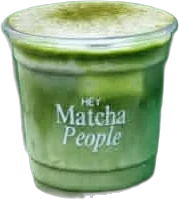
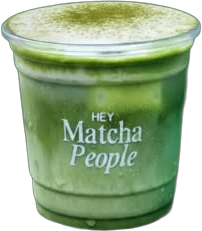
Menu photos from Ken's Drive menus: larger cups, real toasted milk, kinako and hojicha cups (drawings removed)

diff --git a/index.html b/index.html
@@ -88,7 +88,7 @@
   .show{position:sticky;top:80px;min-height:min(72svh,640px);border-radius:28px;background:radial-gradient(90% 70% at 50% 40%,#2F7A3C,var(--deep));overflow:hidden;display:grid;place-items:center;padding:28px}
   .show-name{position:absolute;inset:auto 0 52% 0;text-align:center;font-family:var(--serif);font-size:clamp(3.4rem,8vw,7.5rem);line-height:.85;color:rgba(236,233,211,.16);pointer-events:none;padding:0 10px;view-transition-name:showname}
   .show-cup{position:relative;width:min(62%,280px);aspect-ratio:3/4;display:grid;place-items:end center;view-transition-name:showcup}
-  .show-cup img,.show-cup svg{width:100%;height:100%;object-fit:contain;object-position:bottom;filter:drop-shadow(0 24px 26px rgba(0,0,0,.4))}
+  .show-cup img{width:100%;height:100%;object-fit:contain;object-position:bottom;filter:drop-shadow(0 24px 26px rgba(0,0,0,.4))}
   .show-info{position:absolute;left:24px;right:24px;bottom:20px;display:flex;justify-content:space-between;align-items:end;gap:12px}
   .show-info h3{font-size:clamp(2rem,4vw,3rem)}
   .show-price{font-size:clamp(1.4rem,3vw,2rem);font-weight:700;font-variant-numeric:tabular-nums;white-space:nowrap}
@@ -100,7 +100,7 @@
   .drink:hover{border-color:rgba(236,233,211,.5)}
   .drink[aria-pressed="true"]{background:var(--cream);color:var(--deep);border-color:var(--cream)}
   .drink .th{width:56px;height:64px;display:grid;place-items:end center}
-  .drink .th img,.drink .th svg{max-height:64px;width:auto}
+  .drink .th img{max-height:64px;width:auto}
   .drink b{font-weight:700;font-size:15px}
   .drink small{display:block;font-size:12px;opacity:.75}
   .drink .pr{font-weight:700;font-variant-numeric:tabular-nums}
@@ -310,12 +310,12 @@ document.addEventListener('click', function (e) {
       <div>
         <ul class="drinks" id="drinks">
           <li><button class="drink" type="button" aria-pressed="true" data-img="classic-hd" data-levels="1"><span class="th"><img src="assets/cups/classic-hd.webp" width="640" height="678" alt="" loading="lazy"></span><span><b>classic latte</b><small>level 1, level 2, blend 03, okumidori</small></span><span class="pr">240</span></button></li>
-          <li><button class="drink" type="button" aria-pressed="false" data-img="sea-salt"><span class="th"><img src="assets/cups/sea-salt.webp" width="179" height="199" alt="" loading="lazy"></span><b>sea salt matcha</b><span class="pr">260</span></button></li>
-          <li><button class="drink" type="button" aria-pressed="false" data-img="cream-cheese"><span class="th"><img src="assets/cups/cream-cheese.webp" width="191" height="208" alt="" loading="lazy"></span><b>cream cheese matcha</b><span class="pr">265</span></button></li>
-          <li><button class="drink" type="button" aria-pressed="false" data-img="strawberry"><span class="th"><img src="assets/cups/strawberry.webp" width="192" height="189" alt="" loading="lazy"></span><b>strawberry matcha</b><span class="pr">260</span></button></li>
-          <li><button class="drink" type="button" aria-pressed="false" data-img="earl-grey"><span class="th"><img src="assets/cups/earl-grey.webp" width="196" height="207" alt="" loading="lazy"></span><b>earl grey matcha</b><span class="pr">260</span></button></li>
-          <li><button class="drink" type="button" aria-pressed="false" data-svg="toasted" data-tag="★ best seller"><span class="th"><svg viewBox="0 0 120 150" aria-hidden="true"><use href="#cup-toasted"/></svg></span><span><b>toasted milk matcha <span class="star" aria-label="best seller">★</span></b></span><span class="pr">260</span></button></li>
-          <li><button class="drink" type="button" aria-pressed="false" data-svg="kinako" data-tag="👍 recommended"><span class="th"><svg viewBox="0 0 120 150" aria-hidden="true"><use href="#cup-kinako"/></svg></span><span><b>kinako cream matcha <span aria-label="recommended">👍</span></b></span><span class="pr">280</span></button></li>
+          <li><button class="drink" type="button" aria-pressed="false" data-img="sea-salt"><span class="th"><img src="assets/cups/sea-salt.webp" width="202" height="231" alt="" loading="lazy"></span><b>sea salt matcha</b><span class="pr">260</span></button></li>
+          <li><button class="drink" type="button" aria-pressed="false" data-img="cream-cheese"><span class="th"><img src="assets/cups/cream-cheese.webp" width="215" height="236" alt="" loading="lazy"></span><b>cream cheese matcha</b><span class="pr">265</span></button></li>
+          <li><button class="drink" type="button" aria-pressed="false" data-img="strawberry"><span class="th"><img src="assets/cups/strawberry.webp" width="209" height="233" alt="" loading="lazy"></span><b>strawberry matcha</b><span class="pr">260</span></button></li>
+          <li><button class="drink" type="button" aria-pressed="false" data-img="earl-grey"><span class="th"><img src="assets/cups/earl-grey.webp" width="223" height="236" alt="" loading="lazy"></span><b>earl grey matcha</b><span class="pr">260</span></button></li>
+          <li><button class="drink" type="button" aria-pressed="false" data-img="toasted-milk" data-tag="★ best seller"><span class="th"><img src="assets/cups/toasted-milk.webp" width="215" height="228" alt="" loading="lazy"></span><span><b>toasted milk matcha <span class="star" aria-label="best seller">★</span></b></span><span class="pr">260</span></button></li>
+          <li><button class="drink" type="button" aria-pressed="false" data-img="kinako" data-tag="👍 recommended"><span class="th"><img src="assets/cups/kinako.webp" width="211" height="243" alt="" loading="lazy"></span><span><b>kinako cream matcha <span aria-label="recommended">👍</span></b></span><span class="pr">280</span></button></li>
         </ul>
         <p class="pill">additional matcha +35 per gram</p>
       </div>
@@ -328,7 +328,7 @@ document.addEventListener('click', function (e) {
     <p class="lede">Roasted green tea, two roasts.</p>
     <div class="callouts">
       <p class="roast l"><span>medium roast<br>230</span><i class="line" aria-hidden="true"></i></p>
-      <svg class="hcup" viewBox="0 0 120 150" role="img" aria-label="Illustration of an iced hojicha latte"><use href="#cup-hoji"/></svg>
+      <img class="hcup" src="assets/cups/hojicha.webp" width="603" height="653" alt="Iced hojicha latte in a clear Hey Matcha People cup" loading="lazy">
       <p class="roast r"><i class="line" aria-hidden="true"></i><span>dark roast<br>240</span></p>
     </div>
     <h3>hojicha latte</h3>
@@ -445,19 +445,6 @@ document.addEventListener('click', function (e) {
   </div>
 </dialog>
 
-<!-- Illustrated cups for drinks we don't have a photo of yet (swap for real photos when sent) -->
-<svg width="0" height="0" style="position:absolute" aria-hidden="true">
-  <defs>
-    <clipPath id="cupclip"><path d="M14 18 H106 L96 140 Q95 146 89 146 H31 Q25 146 24 140 Z"/></clipPath>
-    <g id="cupshell">
-      <path d="M14 18 H106 L96 140 Q95 146 89 146 H31 Q25 146 24 140 Z" fill="rgba(255,255,255,.08)" stroke="rgba(255,255,255,.55)" stroke-width="2"/>
-      <rect x="8" y="12" width="104" height="8" rx="4" fill="rgba(255,255,255,.35)"/>
-    </g>
-    <g id="cup-toasted"><g clip-path="url(#cupclip)"><rect x="0" y="22" width="120" height="44" fill="#E6D3B0"/><path d="M0 62 Q30 70 60 62 T120 62 V112 H0Z" fill="#5E9B3A"/><path d="M0 108 Q30 116 60 108 T120 108 V150 H0Z" fill="#EFE9D8"/></g><use href="#cupshell"/></g>
-    <g id="cup-kinako"><g clip-path="url(#cupclip)"><rect x="0" y="22" width="120" height="30" fill="#D9BE8E"/><path d="M0 48 Q30 56 60 48 T120 48 V104 H0Z" fill="#3E8435"/><path d="M0 100 Q30 108 60 100 T120 100 V150 H0Z" fill="#F1ECDD"/></g><use href="#cupshell"/></g>
-    <g id="cup-hoji"><g clip-path="url(#cupclip)"><rect x="0" y="22" width="120" height="128" fill="#6E5A45"/><rect x="0" y="22" width="120" height="10" fill="#A58B6C"/><rect x="34" y="30" width="22" height="18" rx="4" fill="rgba(255,255,255,.35)"/><rect x="62" y="26" width="20" height="16" rx="4" fill="rgba(255,255,255,.3)"/></g><path d="M14 18 H106 L96 140 Q95 146 89 146 H31 Q25 146 24 140 Z" fill="none" stroke="rgba(30,90,43,.55)" stroke-width="2"/><rect x="8" y="12" width="104" height="8" rx="4" fill="rgba(30,90,43,.25)"/></g>
-  </defs>
-</svg>
 
 <script src="assets/site.js" defer></script>
 <script src="assets/seq.js"></script>
@@ -536,9 +523,7 @@ document.addEventListener('click', function (e) {
     const price = b.querySelector(".pr").textContent;
     const update = () => {
       list.querySelectorAll(".drink").forEach(d => d.setAttribute("aria-pressed", d === b));
-      $("showCup").innerHTML = b.dataset.img
-        ? `<img src="assets/cups/${b.dataset.img}.webp" alt="${name}">`
-        : `<svg viewBox="0 0 120 150" role="img" aria-label="Illustration of ${name}"><use href="#cup-${b.dataset.svg}"/></svg>`;
+      $("showCup").innerHTML = `<img src="assets/cups/${b.dataset.img}.webp" alt="${name}">`;
       $("showName").textContent = name.replace(/ matcha$/, "");
       $("showTitle").textContent = name;
       $("showPrice").textContent = "₱" + price;

diff --git a/v2/index.html b/v2/index.html
@@ -83,14 +83,13 @@
   .grid{max-width:980px;margin:70px auto 0;display:grid;grid-template-columns:repeat(3,minmax(0,1fr));gap:56px 24px;list-style:none;padding:0}
   .grid li{display:grid;justify-items:center;gap:10px}
   .grid .cupbox{height:190px;display:grid;place-items:end center;position:relative}
-  .grid img,.grid svg{max-height:190px;width:auto;filter:drop-shadow(0 18px 18px rgba(0,0,0,.3))}
-  .grid svg{height:180px}
+  .grid img{max-height:190px;width:auto;filter:drop-shadow(0 18px 18px rgba(0,0,0,.3))}
   .grid .mark{position:absolute;top:0;right:-14px;font-size:30px;line-height:1}
   .grid b{font-size:clamp(14px,1.8vw,18px);letter-spacing:.05em;line-height:1.35;max-width:14ch}
   .grid span.p{font-weight:700;font-size:clamp(15px,2vw,20px);font-variant-numeric:tabular-nums}
   .menu .pill{margin-top:60px}
   .menu .note{margin-top:14px;font-size:12px;color:#C9D3BE}
-  @media (max-width:640px){.classic{grid-template-columns:1fr;text-align:center}.classic dl{margin-inline:auto;text-align:left}.grid{grid-template-columns:repeat(2,minmax(0,1fr));gap:40px 14px}.grid .cupbox{height:150px}.grid img,.grid svg{max-height:150px}.grid svg{height:140px}}
+  @media (max-width:640px){.classic{grid-template-columns:1fr;text-align:center}.classic dl{margin-inline:auto;text-align:left}.grid{grid-template-columns:repeat(2,minmax(0,1fr));gap:40px 14px}.grid .cupbox{height:150px}.grid img{max-height:150px}}
 
   /* ---------- HOJICHA ---------- */
   .hoji{background:var(--paper);color:var(--leaf);padding:110px var(--pad);text-align:center}
@@ -268,12 +267,12 @@ document.addEventListener('click', function (e) {
       </div>
     </div>
     <ul class="grid">
-      <li><span class="cupbox"><img src="../assets/cups/sea-salt.webp" width="179" height="199" alt="" loading="lazy"></span><b>sea salt matcha</b><span class="p">260</span></li>
-      <li><span class="cupbox"><img src="../assets/cups/cream-cheese.webp" width="191" height="208" alt="" loading="lazy"></span><b>cream cheese matcha</b><span class="p">265</span></li>
-      <li><span class="cupbox"><img src="../assets/cups/strawberry.webp" width="192" height="189" alt="" loading="lazy"></span><b>strawberry matcha</b><span class="p">260</span></li>
-      <li><span class="cupbox"><img src="../assets/cups/earl-grey.webp" width="196" height="207" alt="" loading="lazy"></span><b>earl grey matcha</b><span class="p">260</span></li>
-      <li><span class="cupbox"><svg viewBox="0 0 120 150" aria-hidden="true"><use href="#cup-toasted"/></svg><span class="mark star" aria-label="best seller">★</span></span><b>toasted milk matcha</b><span class="p">260</span></li>
-      <li><span class="cupbox"><svg viewBox="0 0 120 150" aria-hidden="true"><use href="#cup-kinako"/></svg><span class="mark" aria-label="recommended">👍</span></span><b>kinako cream matcha</b><span class="p">280</span></li>
+      <li><span class="cupbox"><img src="../assets/cups/sea-salt.webp" width="202" height="231" alt="" loading="lazy"></span><b>sea salt matcha</b><span class="p">260</span></li>
+      <li><span class="cupbox"><img src="../assets/cups/cream-cheese.webp" width="215" height="236" alt="" loading="lazy"></span><b>cream cheese matcha</b><span class="p">265</span></li>
+      <li><span class="cupbox"><img src="../assets/cups/strawberry.webp" width="209" height="233" alt="" loading="lazy"></span><b>strawberry matcha</b><span class="p">260</span></li>
+      <li><span class="cupbox"><img src="../assets/cups/earl-grey.webp" width="223" height="236" alt="" loading="lazy"></span><b>earl grey matcha</b><span class="p">260</span></li>
+      <li><span class="cupbox"><img src="../assets/cups/toasted-milk.webp" width="215" height="228" alt="" loading="lazy"><span class="mark star" aria-label="best seller">★</span></span><b>toasted milk matcha</b><span class="p">260</span></li>
+      <li><span class="cupbox"><img src="../assets/cups/kinako.webp" width="211" height="243" alt="" loading="lazy"><span class="mark" aria-label="recommended">👍</span></span><b>kinako cream matcha</b><span class="p">280</span></li>
     </ul>
     <p class="pill">additional matcha +35 per gram</p>
   </section>
@@ -282,7 +281,7 @@ document.addEventListener('click', function (e) {
     <h2 id="hoji-title" class="rise">hojicha</h2>
     <div class="callouts">
       <p class="roast l"><span>medium roast<br>230</span><i class="line" aria-hidden="true"></i></p>
-      <svg class="hcup" viewBox="0 0 120 150" role="img" aria-label="Illustration of an iced hojicha latte"><use href="#cup-hoji"/></svg>
+      <img class="hcup" src="../assets/cups/hojicha.webp" width="603" height="653" alt="Iced hojicha latte in a clear Hey Matcha People cup" loading="lazy">
       <p class="roast r"><i class="line" aria-hidden="true"></i><span>dark roast<br>240</span></p>
     </div>
     <h3>hojicha latte</h3>
@@ -376,18 +375,6 @@ document.addEventListener('click', function (e) {
   </div>
 </dialog>
 
-<svg width="0" height="0" style="position:absolute" aria-hidden="true">
-  <defs>
-    <clipPath id="cupclip"><path d="M14 18 H106 L96 140 Q95 146 89 146 H31 Q25 146 24 140 Z"/></clipPath>
-    <g id="cupshell">
-      <path d="M14 18 H106 L96 140 Q95 146 89 146 H31 Q25 146 24 140 Z" fill="rgba(255,255,255,.08)" stroke="rgba(255,255,255,.55)" stroke-width="2"/>
-      <rect x="8" y="12" width="104" height="8" rx="4" fill="rgba(255,255,255,.35)"/>
-    </g>
-    <g id="cup-toasted"><g clip-path="url(#cupclip)"><rect x="0" y="22" width="120" height="44" fill="#E6D3B0"/><path d="M0 62 Q30 70 60 62 T120 62 V112 H0Z" fill="#5E9B3A"/><path d="M0 108 Q30 116 60 108 T120 108 V150 H0Z" fill="#EFE9D8"/></g><use href="#cupshell"/></g>
-    <g id="cup-kinako"><g clip-path="url(#cupclip)"><rect x="0" y="22" width="120" height="30" fill="#D9BE8E"/><path d="M0 48 Q30 56 60 48 T120 48 V104 H0Z" fill="#3E8435"/><path d="M0 100 Q30 108 60 100 T120 100 V150 H0Z" fill="#F1ECDD"/></g><use href="#cupshell"/></g>
-    <g id="cup-hoji"><g clip-path="url(#cupclip)"><rect x="0" y="22" width="120" height="128" fill="#6E5A45"/><rect x="0" y="22" width="120" height="10" fill="#A58B6C"/><rect x="34" y="30" width="22" height="18" rx="4" fill="rgba(255,255,255,.35)"/><rect x="62" y="26" width="20" height="16" rx="4" fill="rgba(255,255,255,.3)"/></g><path d="M14 18 H106 L96 140 Q95 146 89 146 H31 Q25 146 24 140 Z" fill="none" stroke="rgba(30,90,43,.55)" stroke-width="2"/><rect x="8" y="12" width="104" height="8" rx="4" fill="rgba(30,90,43,.25)"/></g>
-  </defs>
-</svg>
 
 <script src="../assets/site.js" defer></script>
 <script src="../assets/seq.js"></script>
